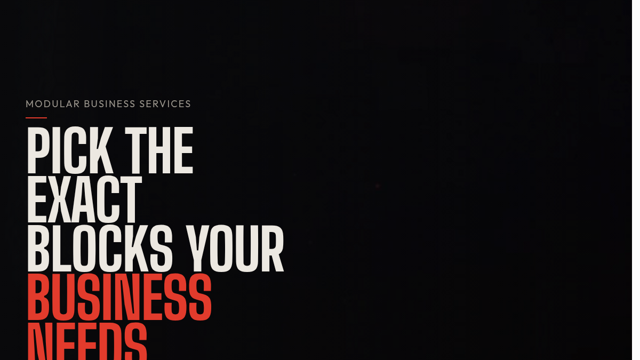
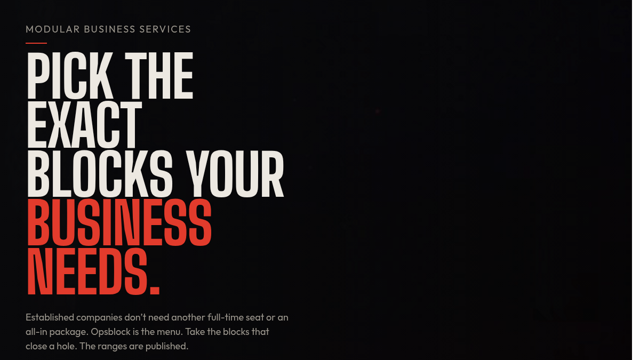
Recrop OpsBlock lower and add hold-to-open on frames

Changed region(s): [[0.0312, 0.0611, 0.4688, 1.0]]

diff --git a/index.html b/index.html
@@ -173,6 +173,17 @@ var g=document.getElementById("gallery");
 var v=document.getElementById("open-vid");
 function show(){ if(g) g.classList.add("open"); }
 if(v){ v.addEventListener("ended", show); setTimeout(show, 5600); } else { setTimeout(show, 400); }
+
+document.querySelectorAll("#wall .frame").forEach(function(a){
+  var t, held=false;
+  a.addEventListener("pointerdown", function(e){
+    held=false;
+    t=setTimeout(function(){ held=true; window.open(a.href,"_blank"); }, 450);
+  });
+  a.addEventListener("pointerup", function(){ clearTimeout(t); });
+  a.addEventListener("pointerleave", function(){ clearTimeout(t); });
+  a.addEventListener("click", function(e){ if(!held) e.preventDefault(); });
+});
 document.getElementById("corner-door").addEventListener("click", function(){
   document.getElementById("door").hidden=false;
   document.getElementById("gallery").hidden=true;
